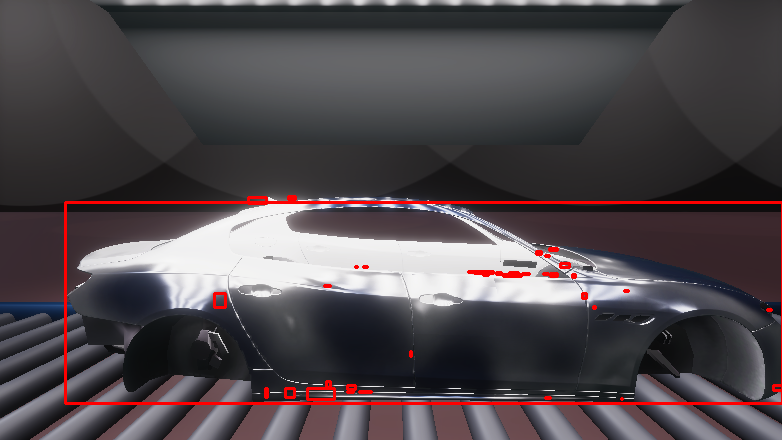
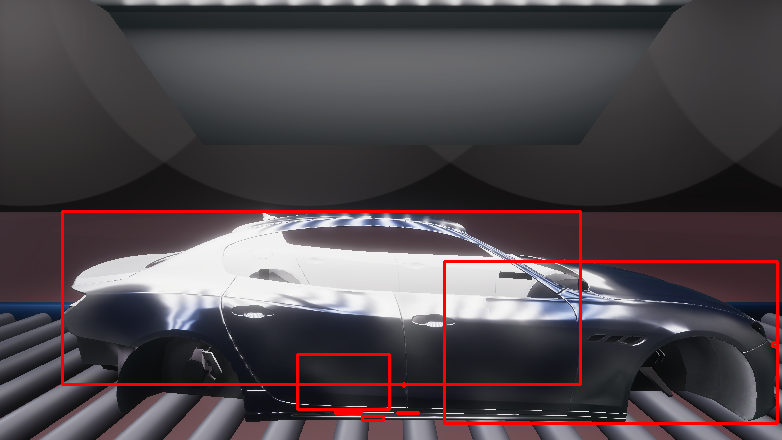
working sim!! woohooo

Changed region(s): [[0.0614, 0.4432, 1.0, 0.975]]

diff --git a/ScenarioSprintProject/Assets/Scripts/image-analyzer.py b/ScenarioSprintProject/Assets/Scripts/image-analyzer.py
@@ -1,15 +1,83 @@
 import os
 import time
-
 import cv2
 import colour
 import imutils
 import socket
 import numpy as np
+from imutils import contours
 from skimage.metrics import structural_similarity as compare_ssim
 
 DIRECTORY = '../CVCaptures/'
 SAVE_DIRECTORY = '../CVCaptures/Contours/'
+
+'''
+def merge_bounding_boxes_x_axis(boxes):
+    boxes_used = [False] * len(boxes)
+    accepted_boxes_x = []
+
+    x_threshold = 2
+    y_threshold = 2
+
+    for supIdx, supVal in enumerate(boxes):
+        if not boxes_used[supIdx]:
+            curr_x_min = supVal[0]
+            curr_x_max = supVal[0] + supVal[2]
+            curr_y_min = supVal[1]
+            curr_y_max = supVal[1] + supVal[3]
+            boxes_used[supIdx] = True
+
+            for subIdx, subVal in enumerate(boxes[(supIdx + 1):], start=(supIdx + 1)):
+
+                # Initialize merge candidate
+                candidate_x_min = subVal[0]
+                candidate_x_max = subVal[0] + subVal[2]
+                candidate_y_min = subVal[1]
+                candidate_y_max = subVal[1] + subVal[3]
+
+                if (curr_x_max + x_threshold >= candidate_x_min) and (
+                        abs(curr_y_min - candidate_y_min) < y_threshold) and (
+                        abs(curr_y_max - candidate_y_max) < y_threshold):
+                    curr_x_max = candidate_x_max
+                    curr_y_min = min(curr_y_min, candidate_y_min)
+                    curr_y_max = max(curr_y_max, candidate_y_max)
+
+                    boxes_used[subIdx] = True
+                else:
+                    break
+
+            accepted_boxes_x.append([curr_x_min, curr_y_min, curr_x_max - curr_x_min, curr_y_max - curr_y_min])
+
+    return accepted_boxes_x
+'''
+
+
+def merge_overlapping_boxes(boxes):
+    boxes_used = [False] * len(boxes)
+    accepted_boxes = []
+
+    for supIdx, supVal in enumerate(boxes):
+        if not boxes_used[supIdx]:
+            curr_x_min = supVal[0]
+            curr_x_max = supVal[0] + supVal[2]
+            curr_y_min = supVal[1]
+            curr_y_max = supVal[1] + supVal[3]
+            boxes_used[supIdx] = True
+
+            for subIdx, subVal in enumerate(boxes[(supIdx + 1):], start=(supIdx + 1)):
+
+                # Initialize merge candidate
+                candidate_x_min = subVal[0]
+                candidate_x_max = subVal[0] + subVal[2]
+                candidate_y_min = subVal[1]
+                candidate_y_max = subVal[1] + subVal[3]
+
+                if (curr_x_max > candidate_x_max) and (curr_x_min < candidate_x_min) and (curr_y_max > candidate_y_max) and (curr_y_min < candidate_y_min):
+                    boxes_used[subIdx] = True
+
+            accepted_boxes.append([curr_x_min, curr_y_min, curr_x_max - curr_x_min, curr_y_max - curr_y_min])
+
+    return accepted_boxes
 
 
 def flaw_analysis(base, flawed, image_number, car_number):
@@ -26,21 +94,22 @@ def flaw_analysis(base, flawed, image_number, car_number):
     thresh = cv2.threshold(diff, 0, 255, cv2.THRESH_BINARY_INV | cv2.THRESH_OTSU)[1]
     contours = cv2.findContours(thresh.copy(), cv2.RETR_EXTERNAL, cv2.CHAIN_APPROX_SIMPLE)
     contours = imutils.grab_contours(contours)
+    (contours, bounding_boxes) = imutils.contours.sort_contours(contours, method="left-to-right")
+    bounding_boxes = list(bounding_boxes)
+    bounding_boxes = merge_overlapping_boxes(bounding_boxes)
+    # bounding_boxes = merge_bounding_boxes_x_axis(bounding_boxes)
+    # bounding_boxes = cv2.groupRectangles(bounding_boxes, 1, 0.01)
+    counter = 0
 
-    for c in contours:
-        (x, y, w, h) = cv2.boundingRect(c)
+    for (x, y, w, h) in bounding_boxes:
         cv2.rectangle(flawed, (x, y), (x + w, y + h), (0, 0, 255), 2)
-        '''
-        # If the contour covers more than 20% of the image, there is a chance there is a color inconsistency
-        if w * h > flawed.shape[0] * flawed.shape[1] * 0.2:
-            print("Very large contour detected. Color consistency may be off")
-        '''
+        counter += 1
 
     cv2.imwrite(f'{SAVE_DIRECTORY}contours{car_number}_{image_number}.png', flawed)
     # cv2.imwrite(f'{DIRECTORY}diff{image_number}.png', diff)
     # cv2.imwrite(f'{DIRECTORY}thresh{car_number}_{image_number}.png', thresh)
 
-    return score
+    return score, counter
 
 
 def color_consistency_analysis(base, flawed):
@@ -64,6 +133,7 @@ def color_consistency_analysis(base, flawed):
     return delta_e
 
 
+'''
 def edge_detection(base, flawed, image_number, car_number):
     # Source: https://learnopencv.com/edge-detection-using-opencv/
     base_gray = cv2.cvtColor(base, cv2.COLOR_BGR2GRAY)
@@ -71,14 +141,14 @@ def edge_detection(base, flawed, image_number, car_number):
 
     base_blur = cv2.GaussianBlur(base_gray, (3, 3), sigmaX=0, sigmaY=0)
     flawed_blur = cv2.GaussianBlur(flawed_gray, (3, 3), sigmaX=0, sigmaY=0)
+    
     # Sobel Edge Detection
     base_sobel_xy = cv2.Sobel(src=base_blur, ddepth=cv2.CV_64F, dx=1, dy=1, ksize=5)  # Combined X and Y Sobel
     sobel_xy = cv2.Sobel(src=flawed_blur, ddepth=cv2.CV_64F, dx=1, dy=1, ksize=5)  # Combined X and Y Sobel
-    '''
+    
     # Canny Edge Detection
     base_edges = cv2.Canny(image=base_blur, threshold1=100, threshold2=200)
     edges = cv2.Canny(image=flawed_blur, threshold1=100, threshold2=200)
-    '''
 
     (score, diff) = compare_ssim(base_sobel_xy, sobel_xy, data_range=sobel_xy.max() - sobel_xy.min(), full=True)
     diff = (diff * 255).astype("uint8")
@@ -96,12 +166,14 @@ def edge_detection(base, flawed, image_number, car_number):
     cv2.imwrite(f'{DIRECTORY}edge_diff{car_number}_{image_number}.png', diff)
 
     return score
+'''
 
 
 def analyze_one_car(car_number):
     total_images = 3
     total_image_for_color_analysis = total_images - 1
     total_ssim_score = 0
+    total_flaws = 0
     total_color_score = 0
 
     for i in range(0, total_images):
@@ -112,20 +184,21 @@ def analyze_one_car(car_number):
         if flawed_image.shape != base_image.shape:
             flawed_image = cv2.resize(flawed_image, (base_image.shape[1], base_image.shape[0]))
 
-        ssim_score = flaw_analysis(np.copy(base_image), np.copy(flawed_image), i, car_number)
+        ssim_score, number_of_flaws = flaw_analysis(np.copy(base_image), np.copy(flawed_image), i, car_number)
         total_ssim_score += ssim_score
+        total_flaws += number_of_flaws
 
         # Do color analysis only for left and right view, not top
         if i != 1:
             color_change_metric = color_consistency_analysis(np.copy(base_image), np.copy(flawed_image))
             total_color_score += color_change_metric
 
-        # edge_detection(np.copy(base_image), np.copy(flawed_image), i, car_number)
-
-    print("SSIM: {}, Color inconsistency:{}".format(total_ssim_score / total_images,
-                                                    total_color_score / total_image_for_color_analysis))
-    sock.sendto(("SSIM: {}, Color inconsistency:{}".format(total_ssim_score / total_images,
-                                                           total_color_score / total_image_for_color_analysis)).encode(),
+    print("SSIM: {}, Flaws: {}, Color inconsistency:{}".format(total_ssim_score / total_images,
+                                                               total_flaws,
+                                                               total_color_score / total_image_for_color_analysis))
+    sock.sendto(("SSIM: {}, Flaws: {}, Color inconsistency:{}".format(total_ssim_score / total_images,
+                                                                      total_flaws,
+                                                                      total_color_score / total_image_for_color_analysis)).encode(),
                 (UDP_IP, UDP_PORT))
 
 
@@ -146,7 +219,7 @@ try:
         if number_of_flawed_images != prev_number_of_flawed_images:
             # 3 new images incoming
             print(f'{number_of_flawed_images} and {prev_number_of_flawed_images}')
-            time.sleep(0.3)
+            time.sleep(0.8)
             analyze_one_car(car_counter)
             car_counter += 1
             number_of_flawed_images = prev_number_of_flawed_images + 3

diff --git a/ScenarioSprintProject/Assets/Scripts/SimulationManager.cs b/ScenarioSprintProject/Assets/Scripts/SimulationManager.cs
@@ -189,13 +189,13 @@ public class SimulationManager : MonoBehaviour
         carRigidBody.isKinematic = true;
         carRigidBody.position = new Vector3(0, 0.59f, -19f);
         carRigidBody.rotation = Quaternion.Euler(0, 180f, 0);
-        carRigidBody.isKinematic = false;
+        // carRigidBody.isKinematic = false;
 
         // Capture images 
-        StartCoroutine(CaptureFromAllPositions(carIndex));
+        StartCoroutine(CaptureFromAllPositions(carIndex, carRigidBody));
     }
 
-    IEnumerator CaptureFromAllPositions(int carIndex)
+    IEnumerator CaptureFromAllPositions(int carIndex, Rigidbody carRigidBody)
     {
         var cameraViewCounter = 0;
         foreach (var cvCamera in m_CVCaptureCameras)
@@ -205,6 +205,7 @@ public class SimulationManager : MonoBehaviour
             cameraViewCounter += 1;
         }
         Debug.Log($"{cameraViewCounter} screenshots were taken for car {carIndex}!");
+        carRigidBody.isKinematic = false;
     }
 
     static void CaptureImageFromOnePosition(Camera currentCamera, int carIndex, int viewIndex)
